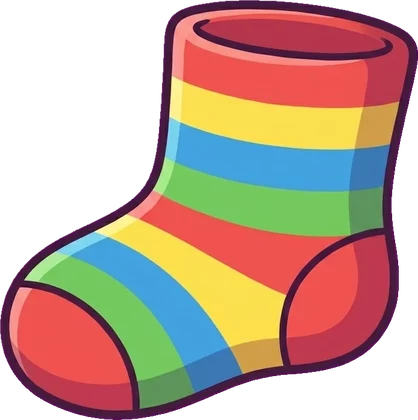
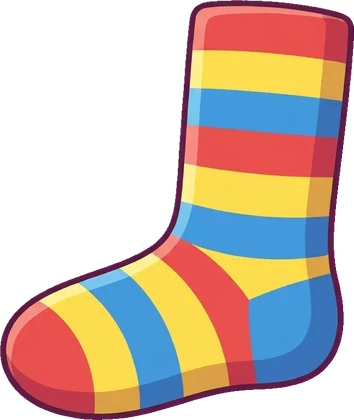
Door words: pig replaces the dropped eggplant; milk picture with a cow and a small glass; sock ships take v3
The parent dropped the eggplant as innuendo (new visuals rule). The new word חָזִיר (pig) keeps the חָ first-syllable
group with cat and milk. Milk: v8-v10 answer the note on v7 (cow on the carton, smaller glass); v10 ships.

diff --git a/src/spellquest/data/words.ts b/src/spellquest/data/words.ts
@@ -42,7 +42,7 @@ export const WORDS: Word[] = [
   door('sock', 'גֶרֶב', [{ item: 'gimel', mark: 'segol' }, { item: 'resh', mark: 'segol', tail: 'ב' }], 'pw-sock', 2),
   door('fence', 'גָדֵר', [{ item: 'gimel', mark: 'kamatz' }, { item: 'dalet', mark: 'tsere', tail: 'ר' }], 'pw-fence', 2),
   door('milk', 'חָלָב', [{ item: 'het', mark: 'kamatz' }, { item: 'lamed', mark: 'kamatz', tail: 'ב' }], 'pw-milk', 2),
-  door('eggplant', 'חָצִיל', [{ item: 'het', mark: 'kamatz' }, { item: 'tsadi', mark: 'chirik', tail: 'יל' }], 'pw-eggplant', 2),
+  door('pig', 'חָזִיר', [{ item: 'het', mark: 'kamatz' }, { item: 'zayin', mark: 'chirik', tail: 'יר' }], 'pw-pig', 2),
   door('snake', 'נָחָשׁ', [{ item: 'nun', mark: 'kamatz' }, { item: 'het', mark: 'kamatz', tail: 'שׁ' }], 'pw-snake', 2),
   door('tiger', 'נָמֵר', [{ item: 'nun', mark: 'kamatz' }, { item: 'mem', mark: 'tsere', tail: 'ר' }], 'pw-tiger', 2),
   door('cow', 'פָּרָה', [{ item: 'pe', mark: 'kamatz' }, { item: 'resh', mark: 'kamatz', tail: 'ה' }], 'pw-cow', 2),

diff --git a/src/spellquest/logic/rounds.test.ts b/src/spellquest/logic/rounds.test.ts
@@ -265,7 +265,7 @@ describe('doors at the last stage', () => {
   it('with the real words, every door word with a first-syllable partner gets one as a key', () => {
     const doors = WORDS.filter((w) => w.door)
     const sameSyl = (a: Word, b: Word) => a.id !== b.id && a.first.item === b.first.item && a.first.mark === b.first.mark
-    for (const id of ['dog', 'crown', 'sheep', 'cat', 'milk', 'eggplant', 'carrot', 'sock', 'camel', 'fence', 'snake', 'tiger', 'cow', 'flashlight']) {
+    for (const id of ['dog', 'crown', 'sheep', 'cat', 'milk', 'pig', 'carrot', 'sock', 'camel', 'fence', 'snake', 'tiger', 'cow', 'flashlight']) {
       const w = doors.find((x) => x.id === id)!
       for (let s = 1; s <= 20; s++) {
         const keys = doorKeys(ctx(4, s), w)

diff --git a/docs/superpowers/specs/2026-11-24-door-words-design.md b/docs/superpowers/specs/2026-11-24-door-words-design.md
@@ -28,7 +28,7 @@ Each new word shares its first letter **and** its first vowel with at least one 
 | 3 | גֶרֶב | GE-rev | sock | גֶזֶר | gimel segol · resh segol + ב | 2 |
 | 4 | גָדֵר | ga-DER | fence | גָמָל | gimel kamatz · dalet tsere + ר | 2 |
 | 5 | חָלָב | cha-LAV | milk | חָתוּל, חָגָב | het kamatz · lamed kamatz + ב | 2 |
-| 6 | חָצִיל | cha-TZIL | eggplant | חָתוּל, חָלָב | het kamatz · tsadi chirik + יל | 2 |
+| 6 | חָזִיר | cha-ZIR | pig | חָתוּל, חָלָב | het kamatz · zayin chirik + יר | 2 |
 | 7 | נָחָשׁ | na-CHASH | snake | נָמֵר | nun kamatz · het kamatz + שׁ | 2 |
 | 8 | נָמֵר | na-MER | tiger | נָחָשׁ | nun kamatz · mem tsere + ר | 2 |
 | 9 | פָּרָה | pa-RA | cow | פָּנָס | pe kamatz · resh kamatz + ה | 2 |
@@ -51,8 +51,8 @@ concept p3 as the reference, one subject on flat magenta, no text, no dots). The
    (he called a goat "sheep": the sheep must not look like a goat).
 3. `pw-sock`: one colourful striped child's sock, side view, toe to the left. (Was גֶשֶׁר / bridge; replaced 2026-11-25 after the parent's second review: "Could be river, or arc".)
 4. `pw-fence`: a short piece of a wooden picket fence, 5 pointed boards and 2 rails, front view. No gate (no door).
-5. `pw-milk`: a clear glass full of white milk next to a closed milk carton, both upright, nothing pours (the pouring take "spills unnaturally", 2026-11-25).
-6. `pw-eggplant`: one glossy purple eggplant with its green cap. (Was חָגָב / grasshopper; replaced 2026-11-25: "any grasshopper can be a mantis, it confuses".)
+5. `pw-milk`: a small clear glass of white milk next to a closed blue milk carton with a cow on it, both upright, nothing pours (the pouring take "spills unnaturally"; v7: "put a cow on the carton, glass smaller", 2026-11-25).
+6. `pw-pig`: one pink cartoon pig, side view, round snout, curly tail. (Was חָגָב / grasshopper, then חָצִיל / eggplant; the parent dropped the eggplant on 2026-11-25 as innuendo.)
 7. `pw-snake`: a green cartoon snake in a loose coil, friendly face, forked tongue. No spots.
 8. `pw-tiger`: a cartoon tiger, full body, walking, side view, bold black stripes, large and strong. It must not look
    like the orange cat of `pw-cat` (sitting, front view).
@@ -61,7 +61,7 @@ concept p3 as the reference, one subject on flat magenta, no text, no dots). The
     dot (it looks like a vav with a mark), no rays as dashes.
 
 Review each picture without its word: what will the child call it? Risks to check: milk ("כּוֹס"), fence, tiger next to
-the cat, sheep ("כִּבְשָׂה"). Backup if one fails: חָצִיל and חָלָב cover each other in the חָ group.
+the cat, sheep ("כִּבְשָׂה"). Backup if one fails: חָזִיר and חָלָב cover each other in the חָ group.
 
 ## Voice
 
@@ -79,7 +79,7 @@ into `src/spellquest/assets/audio/voice/` (silence trimmed), the request into `a
 
 ## The keys with 21 words
 
-First-syllable groups: כֶּ {dog, crown, sheep}, חָ {cat, milk, eggplant}, גֶ {carrot, sock}, גָ {camel, fence},
+First-syllable groups: כֶּ {dog, crown, sheep}, חָ {cat, milk, pig}, גֶ {carrot, sock}, גָ {camel, fence},
 נָ {snake, tiger}, פָּ {cow, flashlight}. No partner: tent, ball, fox, cake, house, rose, book (7 words).
 First-letter groups: ג {camel, carrot, sock, fence}, כ {ball, dog, crown, sheep}.
 
@@ -101,7 +101,7 @@ keys stay random.
 2. Add the ten words to `WORDS` (`words.ts`).
 3. `doorKeys`: the new order, with a test: at stage 4 a word with a first-syllable partner always gets one as a key.
 4. Check on the verify build: the shin and sin dots of the tails (נָחָשׁ, כֶּבֶשׂ) and the width of the plate for the
-   widest word (חָצִיל).
+   widest word (גָדֵר or חָזִיר).
 
 ## Cost (from the records)
 

diff --git a/docs/minigame-rules/visuals.md b/docs/minigame-rules/visuals.md
@@ -29,6 +29,9 @@
   Example (English Spell Quest): sled was removed.
 - Use only words whose first vowel sounds as written.
   Example (tower): תמנון has shva, but people say "ta". Do not use it.
+- Do not use a picture or a word that adults read as innuendo.
+  Reason: the parent sees every picture too, and a child-facing game must not make an adult smile for the wrong reason.
+  Example (Hebrew Spell Quest): the eggplant was dropped on 2026-11-25. Peach and banana also read as innuendo.
 - Give each sound several picture words. Take them from things that the child knows.
   Reason: the child must learn the sound, not one picture. Example (tower): words from the Alef-Bet song.
 - Link a letter or syllable only to a picture word that starts with that same letter, not only the same sound.
